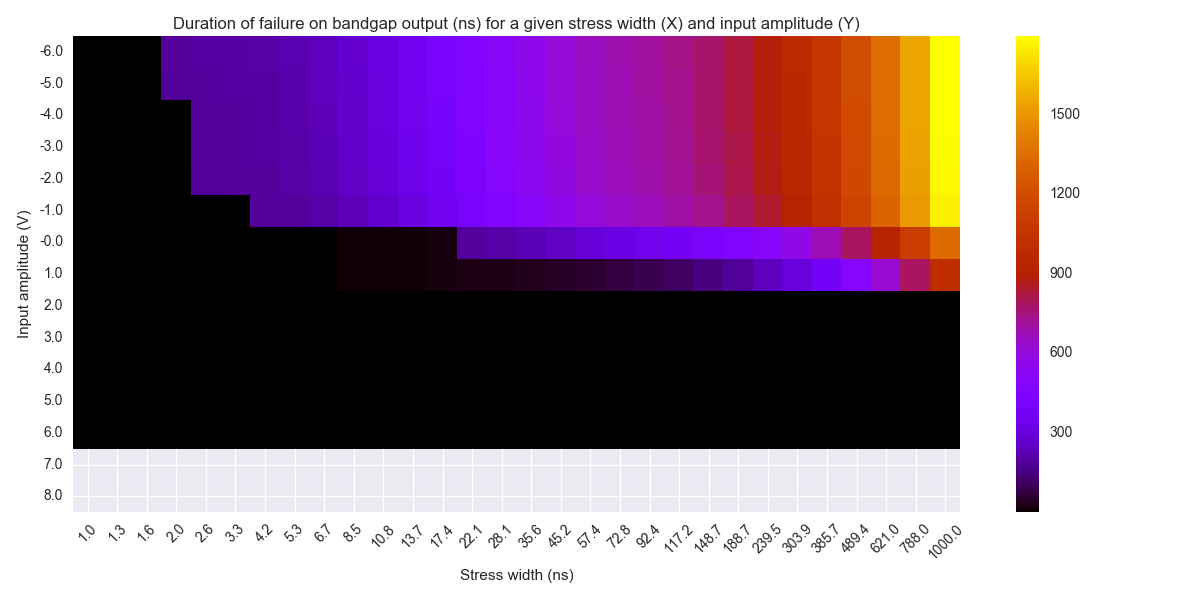
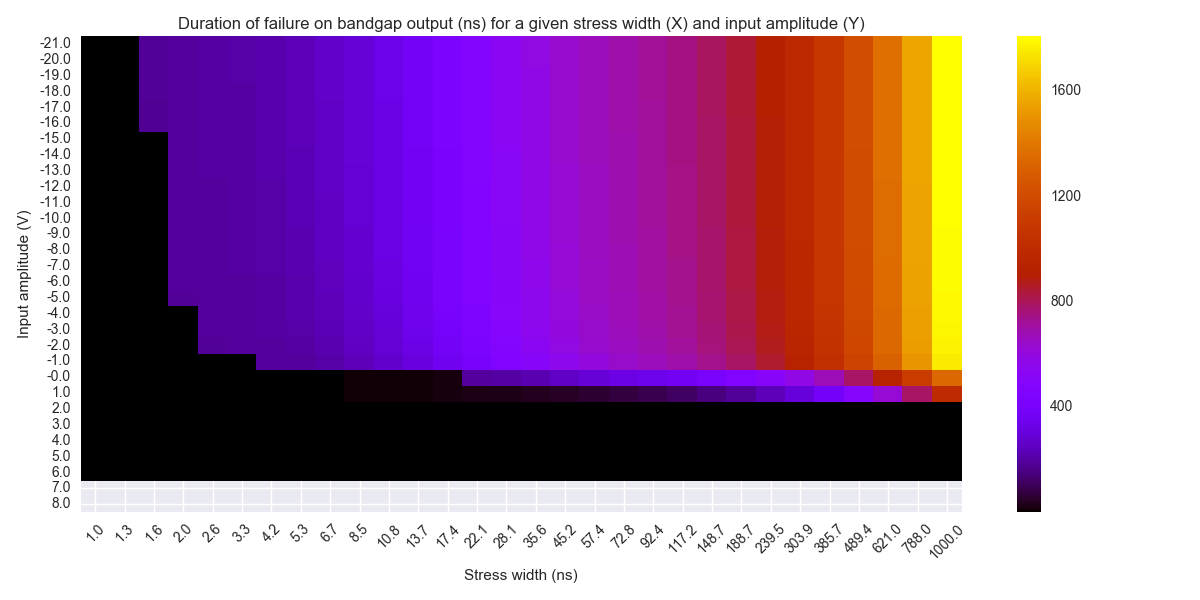
Update section 4.1 and figures

diff --git a/src/4/sections/s1-application.tex b/src/4/sections/s1-application.tex
@@ -1,4 +1,3 @@
-
 \subsection{Application to the test vehicle}
 
 The method described in both previous sections (\ref{sec:block-failure-cz} and \ref{sec:block-chaining}) is tested in simulation on real blocks.
@@ -24,24 +23,27 @@ Details of the selected pins is given in Table \ref{selected-pins-for-cz}.
 \label{selected-pins-for-cz}
 \end{table}
 
-% Talk about the characterization limits and failure criteria chosen
-%TODO: Detail how were chosen failure criteria
+% Talk about the characterization limits
 The characterization is done using negative voltages.
 The goal is to exploit the weakness of the testchip against negative pulses discovered and highlighted in section \ref{sec:testchip_study}.
-Basically, it was observed for sufficiently high negative voltage that a short pulse can cause a full restart of the system.
+Basically, it was observed for sufficiently high negative voltage a short pulse can cause a full restart of the system.
 The time taken by this restart, observed on the regulator output, is several order of magnitudes longer than the original pulse injected on the pre-regulator input.
-The failure criteria for the pre-regulator corresponds to XXX ?
-The failure criteria for the bandgap output voltage is the DC specification ?
-Finally, the failure criteria for the regulator, and thus for the complete function, corresponds to the DC specification of this function.
+
+% failure criteria chosen
+The failure criteria for the pre-regulator is a voltage lower than 0V on the output.
+It corresponds to a situation worse than the unpowered state, where all nets are at 0V.
+The failure criteria for the bandgap is a voltage lower than 1.25V on the 2.5V reference output.
+Finally, the failure criteria for the regulator, which is also the failure criteria for the complete function, is a voltage lower than 2.1V on the 2.5V regulated output.
+This criteria corresponds to a voltage below which digital cells using this supply will fail to function properly.
 
 % Which load value for characterization
 The test setup described in section \ref{sec:block-failure-cz} requires a characterization load to simulate the impact of neighbor blocks.
 In a first time, a very simplistic model is employed for this load.
 An arbitrary load value of 1M\textgreek{Omega}\ is initially chosen, just to perform a preliminary test.
-%TODO: DETAIL MORE ?
+The impact of this load on the characterization will be evaluated later on in the analysis.
 
 % Simulation process
-For each block, the characterization testbench is setup and a set of simulations is run.
+For each block, the characterization testbench is setup and a set of simulations is ran.
 This set is calculated with the characterization range given in Table \ref{selected-pins-for-cz}.
 This type of parameterized simulations can be efficiently distributed on multiple machines.
 This way, the complete characterization of a block does not take longer than the time taken by a single simulation.
@@ -49,8 +51,13 @@ Once all simulations are run, the results are analysed and plotted using the met
 
 % Talk about the output
 These characterization curves are given in Figs. \ref{pre_regu_wb}, \ref{bandgap_wb} and \ref{regu_wb}.
-For the given testchip, it was found that the regulation function shows clear failure when exposed to negative stresses.
-For simplicity, the voltage scale was simply reversed, but this doesn't affect the results in any case.
+The characterization of the pre-regulator (fig. \ref{pre_regu_wb}) is plotted using the stress amplitude only on the X axis.
+The stress amplitude is the pulse voltage set in the pulse generator SPICE model.
+On the other hand, the bandgap and regulator curves are using instead the voltage probed on the input net during the stress.
+
+
+% TODO: Why curve 1 has different x-axis
+The reason for using the set voltage directly, and not
 
 \begin{figure}[!htbp]
   \centering
@@ -73,23 +80,30 @@ For simplicity, the voltage scale was simply reversed, but this doesn't affect t
   \label{regu_wb}
 \end{figure}
 
-
 % Characterization done, now perform chaining
-After the characterization phase, it is now possible to chain the models together to evaluate the entire function's robustness, using method described in \label{sec:block-chaining}.
-To check the validity of the model, a rectangular pulse is injected on the global input (pre-regulator input).
+After the characterization phase, it is now possible to chain the models together.
+The goal is to evaluate the entire function's robustness with the method described in \label{sec:block-chaining}.
+A rectangular pulse is injected on the global input (pre-regulator input).
 The chain of models is used to predict, without running any more simulations, the failure or not on the output pin.
-For the purpose of this test, the input stress will be generated by a \gls{tlp} generator, producing a pulse of 100ns duration and -50V amplitude.
+For the purpose of this test, the input stress will be generated by a \gls{tlp} generator, producing a pulse of 100ns duration and -30V amplitude.
 
 % Do it on one pulse config
-First, the coordinaates (100ns, -50V) are reported on curve \ref{pre_regu_wb}, the first block model of the system.
-%TODO: PAS POSSIBLE, CAR COURBES MONTRENT DC + STRESS
-This point indicates a failure on the output of the pre-regulator, for a duration between XXns and XXns.
-This gives the next point coordinates (XXns, -XXV).
+First, the coordinaates (100ns, -30V) are reported on curve \ref{pre_regu_wb}, the first block model of the system.
+This point indicates a failure on the output of the pre-regulator, for a duration of 500ns.
+The failure criteria is 0V on the output.
+This gives the next point coordinates (500 ns, 0V).
 This point is reported on the bandgap's model, the next block in the system.
-Using these coordinates in the curve \ref{bandgap_wb} indicates a failure on the bandgap output between XXns and XXXns.
-Finally, the point corresponding to the best-case output of the bandgap (XXXns, -XXV) is used as an input for the final block.
-This gives a failure on the final output comprised between XXXns and XXXX ns.
-In conclusion, the model chain estimated that for a -50V 100ns stress on the input, the regulation function will be at fault (output < XXV) for more than XXXX ns.
+Using these coordinates in the curve \ref{bandgap_wb} indicates a failure on the bandgap output for about 800ns.
+Since the failure criteria for the bandgap is 1.25V on the output, the next point coordinates are (800ns, 1.25V).
+They are used as an input on the final block's model (fig. \ref{regu_wb}).
+Reporting those coordinates, no failure is expected on the regulator output.
+
+In conclusion, the model chain estimated that for a -50V 100ns stress on the input, the regulation function will not be at fault (output < 2.1V).
+
+500ns -45V
+1800ns 0V
+ 1.25V
+
 
 %TODO: SHOW ALL THREE CZ CURVES WITH POINT REPORT FROM ONE TO ANOTHER
 
